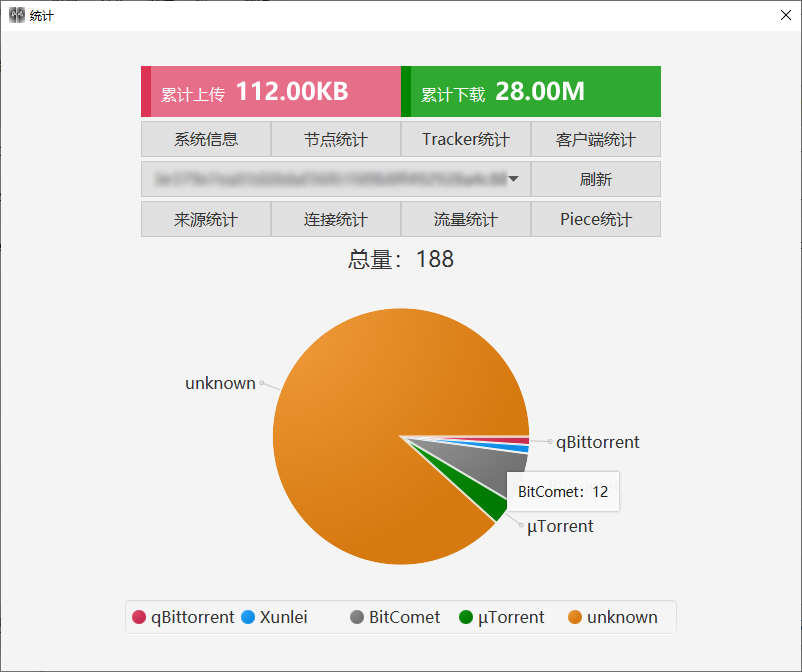
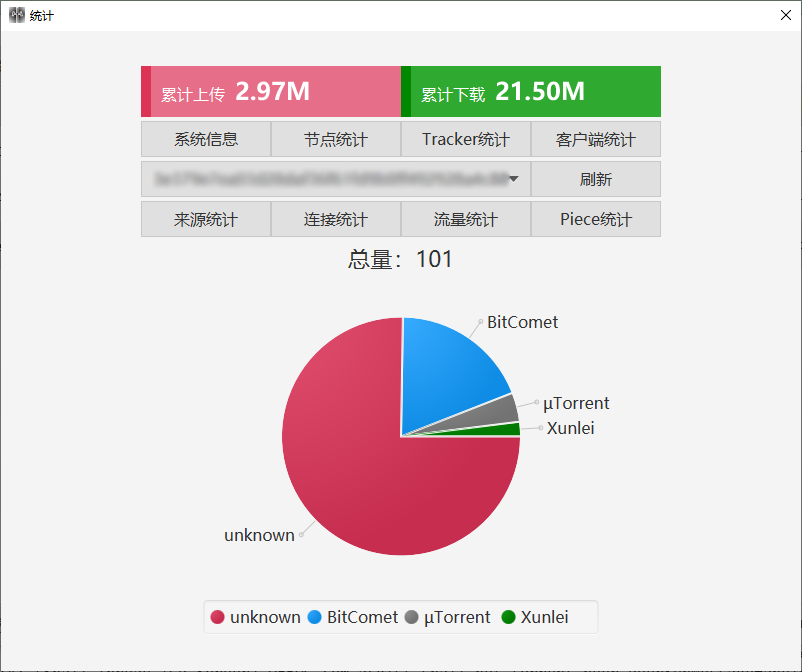
添加客户端排序

diff --git a/snail-javafx/src/main/java/com/acgist/snail/gui/javafx/window/statistics/StatisticsController.java b/snail-javafx/src/main/java/com/acgist/snail/gui/javafx/window/statistics/StatisticsController.java
@@ -408,6 +408,8 @@ public final class StatisticsController extends Controller implements Initializa
 		final var pieCharts = peers.stream()
 			.collect(Collectors.groupingBy(PeerSession::clientName, Collectors.counting()))
 			.entrySet().stream()
+			// 排序：数量倒序
+			.sorted((source, target) -> Long.compare(target.getValue(), source.getValue()))
 			.map(entity -> new PieChart.Data(entity.getKey(), entity.getValue()))
 			.collect(Collectors.toList());
 		final ObservableList<PieChart.Data> pieChartData = FXCollections.observableArrayList(pieCharts);
